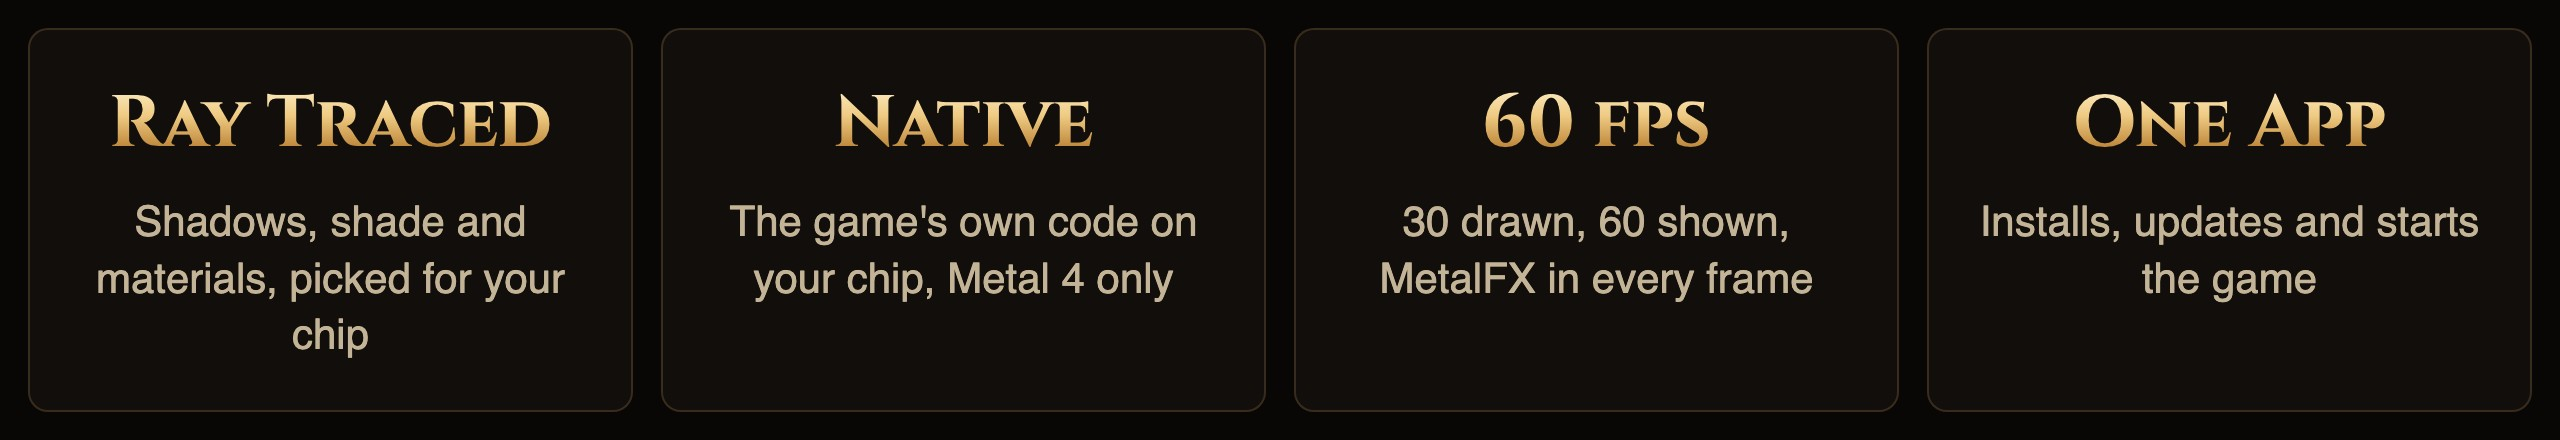
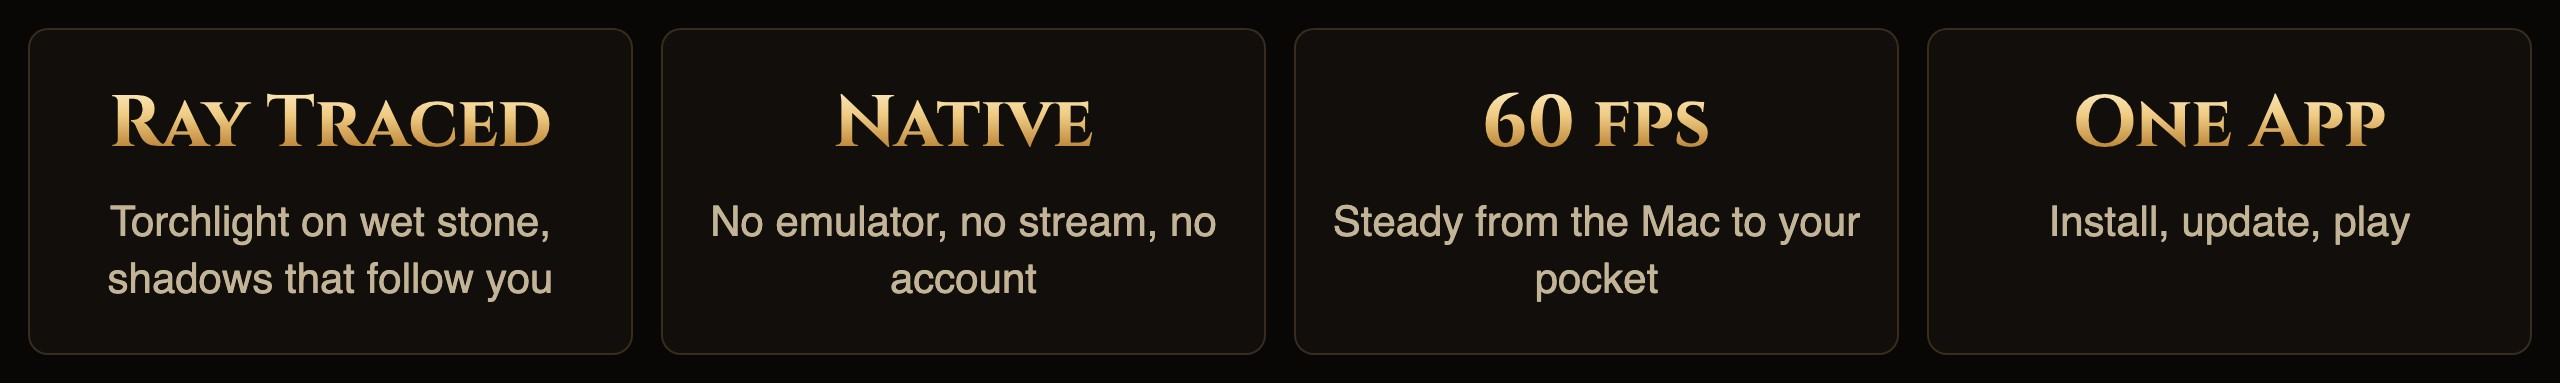
README: written for Diablo fans
The same page, with its words rewritten for players rather than as a report: what the game feels like, what it does for you, and what's honest about the numbers, with the engineering kept to the developer section.

diff --git a/README.md b/README.md
@@ -2,7 +2,7 @@
   <img src="docs/images/r3-hero.jpg" width="100%" alt="D2R Metal, native on Apple silicon: Diablo II: Resurrected and Reign of the Warlock">
 </p>
 
-<h3 align="center">Diablo II: Resurrected, ray traced and native on Apple silicon.</h3>
+<h3 align="center">Diablo II: Resurrected on your Mac, iPhone and iPad. Native, ray traced, and yours to play offline.</h3>
 
 <p align="center">
   <a href="https://github.com/PowerBeef/d2r-metal/releases/latest"><img src="docs/images/r3-btn-mac.png" height="66" alt="Download for Mac"></a>
@@ -21,9 +21,9 @@
   <picture><source media="(max-width: 700px)" srcset="docs/images/r3-clip-cath-s.avif" type="image/avif"><source srcset="docs/images/r3-clip-cath.avif" type="image/avif"><img src="docs/images/r3-clip-cath.jpg" width="100%" alt="The Cathedral in motion: the hero runs over dark, damp stone between two burning torches, her shadow swinging as she passes them"></picture>
 </p>
 
-D2R Metal is a native Apple silicon port of **Diablo II: Resurrected with Reign of the Warlock**. The game's own code runs directly on your chip, every frame is drawn with Metal 4, and it plays fully offline. It isn't an emulator, a stream or a remake.
+Sanctuary belongs on Apple silicon. D2R Metal brings **Diablo II: Resurrected with Reign of the Warlock** to your Mac, iPhone and iPad as a real native game: Blizzard's own code running on your chip, drawn by Metal 4, with ray-traced light on Macs that can carry it. No emulator, no streaming, no remake, no account, no internet. Just the Rogue Encampment waiting for you.
 
-You bring your own copy of the game: D2R Metal builds itself on your device from the Nintendo Switch version's files and contains none of the game.
+You bring your own copy: D2R Metal builds itself from the Nintendo Switch version's files on your device, and ships none of the game.
 
 <p align="center">
   <img src="docs/images/r3-plaques.jpg" width="100%" alt="Ray traced: shadows, shade and materials, picked for your chip. Native: the game's own code on your chip, Metal 4 only. 60 fps: 30 drawn, 60 shown, MetalFX in every frame. One app: installs, updates and starts the game.">
@@ -31,7 +31,7 @@ You bring your own copy of the game: D2R Metal builds itself on your device from
 
 <h2 align="center" id="ray-traced-sanctuary"><img src="docs/images/r3-plate-rays.jpg" width="100%" alt="Ray-Traced Sanctuary"></h2>
 
-Ray tracing is a finishing layer over the game's own lighting. It shows best in motion, and in the dark, where torchlight, wet stone and shadows are all you have. Every clip here is the game on a Mac mini with an M6, in full screen at the settings it picked for itself, with rays at Full.
+You know these places. Now walk them with the light traced through them: torches that throw your shadow across the Cathedral floor, flagstones that have never been this wet, and dark that is still properly dark. Rays sit on top of the game's own lighting, the way its artists meant it, and show best where the torches do the work. Every clip is the game as it runs on a Mac mini with an M6, at the settings it chose for itself, rays at Full.
 
 <p align="center">
   <picture><source media="(max-width: 700px)" srcset="docs/images/r3-clip-harem-s.avif" type="image/avif"><source srcset="docs/images/r3-clip-harem.avif" type="image/avif"><img src="docs/images/r3-clip-harem.jpg" width="49%" alt="The Harem in Act II: firelight runs across a polished checkered floor as the hero walks through"></picture>
@@ -42,13 +42,11 @@ Ray tracing is a finishing layer over the game's own lighting. It shows best in 
   <picture><source media="(max-width: 700px)" srcset="docs/images/r3-clip-glacial-s.avif" type="image/avif"><source srcset="docs/images/r3-clip-glacial.avif" type="image/avif"><img src="docs/images/r3-clip-glacial.jpg" width="49%" alt="An ice cave in Act V: the hero runs across the ice between braziers, their flames shining on the wet floor"></picture>
 </p>
 
-- **Materials answer the light.** Polished stone, ice and metal catch what's around them as you move, and damp places shine more than dry ones. The dark stays as dark as the game's artists made it.
-- **Fire and characters cast ray-traced shadows** that swing as you walk past.
-- **Soft shade** gathers where things meet, and the sun's shadows are traced too.
+- **Every surface answers the light its own way.** Marble, ice and steel catch the glow around them as you move. The Sewers and the Catacombs glisten; the desert stays dry; the Durance of Hate stays black.
+- **Your shadow is real.** Torches, braziers and your own character throw ray-traced shadows that swing as you pass.
+- **Shade settles where it should,** at the foot of walls, under ledges, between the stones, and the sun's shadows are traced across the Blood Moor too.
 
-The torch glints on polished floors aren't rays: they're the game's own effect lights, which D2R Metal turns up with Environment Detail.
-
-The **Ray Tracing** row has Off, Light, Standard and Full, and a change shows at once. It needs an M3 or later, and Recommended turns it on where it fits ([every Mac's pick](#supported-devices)). iPhone and iPad don't have rays yet.
+Ray tracing has four levels, **Off, Light, Standard and Full**, and switches instantly. It needs a Mac with an M3 or later; the game turns it on by itself where your Mac can hold 60 fps ([which Macs](#supported-devices)). iPhone and iPad don't have it yet. The torch glints on polished floors are the game's own effect lights, turned up with Environment Detail, so the lighter levels keep them.
 
 <h2 align="center" id="across-sanctuary"><img src="docs/images/r3-plate-sanctuary.jpg" width="100%" alt="Across Sanctuary"></h2>
 
@@ -63,26 +61,27 @@ The **Ray Tracing** row has Off, Light, Standard and Full, and a change shows at
 
 <h2 align="center" id="built-for-apple-silicon"><img src="docs/images/r3-plate-apple.jpg" width="100%" alt="Built for Apple Silicon"></h2>
 
-- **The game's own code, on your chip.** The few instructions an ordinary app can't run are rewritten once, ahead of time, and nothing is generated while you play.
-- **Metal 4 only.** Its command queues, argument tables and residency sets, with no older path kept alongside, and unified memory with nothing to copy.
-- **MetalFX in every frame.** Temporal upscaling builds detail from several frames, and frame interpolation creates every other frame. The interface is never warped, so text stays crisp.
-- **Hardware ray tracing** on the M3 and later.
-- **Presented the way Apple's guide describes,** on a thread and a queue of their own, so a frame waiting for the screen never holds up the next.
-- **Picked for your chip.** It reads your chip's generation, graphics cores, screen, memory and cooling, and sets the picture to match.
+This isn't a Windows game squeezed through a translation layer. It's Diablo II, rebuilt from the inside for the hardware you own.
+
+- **Blizzard's code, your chip.** The game runs directly on Apple silicon, with nothing in between to slow it or break it.
+- **Metal 4, and only Metal 4.** The graphics were rebuilt from scratch for Apple's newest graphics API, with no older code path dragging behind.
+- **MetalFX in every frame.** Apple's upscaler rebuilds detail from several frames and creates the frames in between, so the game can spend its time on light instead of pixels. Text and panels stay pin sharp.
+- **Hardware ray tracing** on the M3 and later, the way Apple designed it to be used.
+- **It sets itself up.** The first time it opens, it reads your chip, your screen, your memory and even whether your Mac has a fan, and picks the picture to match. Change screens and it works it out again.
 
 <h2 align="center" id="smooth-by-design"><img src="docs/images/r3-plate-smooth.jpg" width="100%" alt="Smooth by Design"></h2>
 
-The game draws 30 frames a second and MetalFX creates the 30 between. Each drawn frame gets twice the time, which is what pays for the rays, and you see 60.
+Diablo II lives on its rhythm: the click, the swing, the loot hitting the ground. D2R Metal draws 30 frames a second and MetalFX builds the 30 between, so your eye sees a steady 60 while every drawn frame gets twice the time. That's what pays for the rays. Here's what a play session looks like on screen: a flat line is a game that never stutters.
 
 <p align="center">
   <img src="docs/images/r3-chart-smooth.jpg" width="100%" alt="Two line charts of the milliseconds between images on screen, both nearly flat at 16.7. Mac mini with an M6, rays at Full, walking the Cathedral: 3,305 images in 55 seconds, 2 of them late, at 33.3 ms. iPhone 17 Pro, the world at 50%, walking the Far Oasis: 19,518 images in 325 seconds, 3 of them late, at 29.2 ms.">
 </p>
 
-<sub>One run each, leaving out the first 5 seconds as the place settles in. These are the only two devices measured so far. In a crowd of 100 monsters the iPhone 17 Pro runs at about 54 fps. Controls respond slightly later than at a real 60 fps: on an M6 with rays off, a click reaches the screen in about 96 ms against 73.5 ms.</sub>
+<sub>One session each, skipping the first 5 seconds while the area loads in. These are the two devices we've measured ourselves. Honest footnote: with 100 monsters on screen the iPhone 17 Pro dips to about 54 fps, and generated frames add a touch of input delay, about 22 ms on an M6. Nothing a Baal run will notice.</sub>
 
 <h2 align="center" id="the-launcher"><img src="docs/images/r3-plate-launcher.jpg" width="100%" alt="The Launcher"></h2>
 
-On the Mac, **D2R Metal Launcher** is the only thing you download. Point it at your game files, press **Install**, and press **Play**.
+No terminal, no scripts, no wiki page of steps. On the Mac you download one app, **D2R Metal Launcher**, show it your game files, press **Install**, and a coffee later you press **Play**.
 
 <p align="center">
   <img src="docs/images/r3-launcher-home.jpg" width="100%" alt="D2R Metal Launcher, ready to play, with the release notes, the installed version and a Play button">
@@ -92,17 +91,17 @@ On the Mac, **D2R Metal Launcher** is the only thing you download. Point it at y
   <img src="docs/images/r3-launcher-working.jpg" width="49%" alt="The launcher building the game, with its progress">
 </p>
 
-- **Builds the game on your Mac** from your own files, in about 10–15 minutes the first time. Nothing leaves your Mac.
-- **Keeps everything current.** It updates itself and the game, and your saves stay as they are.
-- **Can go back** to the previous version, and repairs a damaged install. Signed and notarized by Apple.
+- **Builds the game on your Mac,** from your own files, in about 10 to 15 minutes the first time. Nothing is uploaded anywhere.
+- **Keeps you current.** New version out? It tells you, updates itself and the game in a few minutes, and never touches your characters.
+- **Has your back.** It can roll back to the previous version, repair a damaged install, and it's signed and notarized by Apple so macOS just opens it.
 
 <h2 align="center" id="play-your-way"><img src="docs/images/r3-plate-controls.jpg" width="100%" alt="Play Your Way"></h2>
 
 | Mouse and keyboard | Controller | Touch |
 |---|---|---|
-| The game's own PC interface and D2R's PC keys, with the gauntlet pointer | The console interface, with hints for Xbox, PlayStation or Switch | Controls made for the game, on iPhone and iPad |
+| The real PC interface, the gauntlet pointer and the keys you already know | The console interface, with the right button hints for Xbox, PlayStation or Switch | Controls built for the game, on iPhone and iPad |
 
-Switching is automatic: press a button and the console interface comes up, move the mouse and the PC one returns.
+Pick up a controller mid-game and the console interface appears; touch the mouse and the PC one is back. No menu to visit.
 
 <p align="center">
   <img src="docs/images/r3-pc-world.jpg" width="49%" alt="Mouse and keyboard on the Mac: the game's PC HUD with its angel and demon beside the orbs, and the gauntlet pointer">
@@ -112,12 +111,14 @@ Switching is automatic: press a button and the console interface comes up, move 
 <details>
 <summary><b>The keys</b></summary>
 
-- Click to walk, attack, talk and pick up, and hold to keep going. Right click casts your right skill at the pointer, or uses the item under it.
-- Shift + click attacks without moving, and holding Shift compares an item with what you wear.
-- 1 – 4 drink from the belt, F1 – F8 pick skills, and the wheel steps through them.
-- I, C, T and Q open the inventory, character, skill tree and quests. Tab shows the map, Alt the items on the ground, W swaps weapons, and Esc closes what is open or opens the game menu.
+They're D2R's own PC defaults, so your hands already know them:
 
-Keys can't be rebound yet. Everything about playing on the Mac is in [docs/MAC.md](docs/MAC.md).
+- Click to walk, attack, talk and pick up; hold to keep going. Right click casts your right skill, or uses the item under the pointer.
+- Shift + click attacks without moving. Hold Shift over an item to compare it with what you wear.
+- 1 to 4 drink from the belt, F1 to F8 pick skills, the wheel steps through them.
+- I, C, T and Q for inventory, character, skills and quests. Tab for the map, Alt to show the loot on the ground, W to swap weapons, Esc to close things or open the menu.
+
+Rebinding isn't in yet. Everything else about the Mac version is in [docs/MAC.md](docs/MAC.md).
 
 </details>
 
@@ -127,15 +128,15 @@ Keys can't be rebound yet. Everything about playing on the Mac is in [docs/MAC.m
   <img src="docs/images/r3-iphone.jpg" width="100%" alt="The Rogue Encampment on an iPhone 17 Pro, with its touch controls">
 </p>
 
-The same game on the go: the world drawn at half size and rebuilt by MetalFX, at the picture size your chip can hold, with saves when the app goes to the background and iCloud sync between devices. For now the app is built from source with Xcode ([how](#on-iphone-and-ipad-or-to-develop-build-from-source)).
+The whole game, in your pocket, with touch controls made for it or any controller you pair. MetalFX rebuilds the world from half size so your phone stays cool and the frames stay steady, and each iPhone and iPad gets a picture size its chip can carry. It saves the moment you swipe away, and iCloud carries your characters between your devices. For now the iPhone and iPad app is built from source with Xcode ([how](#on-iphone-and-ipad-or-to-develop-build-from-source)).
 
 <h2 align="center" id="supported-devices"><img src="docs/images/r3-plate-devices.jpg" width="100%" alt="Supported Devices"></h2>
 
-**Needs:** a Mac with an M1 or later on macOS 27, or an iPhone or iPad with an A14 or later on iOS / iPadOS 27. **Rays need** an M3 or later. Here's what **Recommended** picks the first time it starts. You can change any of it.
+**You need:** a Mac with an M1 or later on macOS 27, or an iPhone or iPad with an A14 or later on iOS / iPadOS 27. **For ray tracing,** an M3 or later. Below is what the game picks for each device the first time it starts; you can change all of it in Options.
 
 #### Mac
 
-Each cell is the ray tracing level, then how many pixels wide the 3D world is drawn on that chip's usual screen. Two lines mean the larger GPU, then the smaller. The M6 is on a 2560 × 1440 display.
+Each cell shows the ray tracing level and how wide the 3D world is drawn, in pixels, on that chip's usual screen. Two lines mean the bigger GPU option, then the smaller. The M6 is on a 2560 × 1440 display.
 
 | | M6 | M5 | M4 | M3 | M2 | M1 |
 |---|:---:|:---:|:---:|:---:|:---:|:---:|
@@ -144,11 +145,11 @@ Each cell is the ray tracing level, then how many pixels wide the 3D world is dr
 | **Pro**<br><sub>14-inch</sub> | – | **Full**&nbsp;3024 | **Full**&nbsp;2570 | **Standard**&nbsp;2268<br>**Light**&nbsp;2026 | Off&nbsp;3024 | Off&nbsp;3024<br>Off&nbsp;2570 |
 | **Base**<br><sub>13-inch Air</sub> | **Full**&nbsp;2560 ✓ | **Light**&nbsp;1970<br>Off&nbsp;2500 | Off&nbsp;2500<br>Off&nbsp;1470 | Off&nbsp;1970<br>Off&nbsp;1920 | Off&nbsp;1470<br>Off&nbsp;1920 | Off&nbsp;1600 |
 
-Every Mac also gets MetalFX Temporal, frame generation, 16x filtering, Accurate color, Environment Shadows and Ultra shadow maps, except the 7-core M1 and the MacBook Neo (A18 Pro: Off, 1204 wide), which get lighter shadows. **✓ Only the M6 has been measured.** The rest are estimates from public benchmarks, about one step of 3D Resolution either way ([how they're made](docs/MAC.md#what-recommended-picks)).
+Every Mac also gets MetalFX, frame generation, 16x filtering, true colors, environment shadows and the finest shadow maps, except the 7-core M1 and the MacBook Neo (A18 Pro: no rays, 1204 wide), which get lighter shadows. **✓ marks the one Mac we've measured ourselves.** The rest are our best estimates from public benchmarks, and could be a notch off either way ([how we pick](docs/MAC.md#what-recommended-picks)). If your Mac has room to spare or struggles, nudge the 3D Resolution and Ray Tracing rows, and [tell us](https://github.com/PowerBeef/d2r-metal/issues/new/choose) what you've got.
 
 <h4 id="iphone-and-ipad">iPhone and iPad</h4>
 
-Every device gets MetalFX Temporal, frame generation, the world at 50%, 16x filtering and Accurate color. They differ in Picture Size.
+Every iPhone and iPad gets MetalFX, frame generation, the world at half size, 16x filtering and true colors. What changes from one device to the next is the Picture Size.
 
 | Picture Size | iPhone | iPad |
 |---|---|---|
@@ -157,9 +158,9 @@ Every device gets MetalFX Temporal, frame generation, the world at 50%, 16x filt
 | **Medium**<br><sub>62.5%</sub> | 15 Pro Max, 15 ≈, 15 Plus, 14 Pro ≈, 14 Pro Max, 14 ≈, 13 Pro ≈ | Pro 12.9 M1, mini A17 Pro, iPad A16 |
 | **Low**<br><sub>720 rows</sub> | 14 Plus, 13 Pro Max, 13 ≈, 13 mini, 12 Pro Max, 12 Pro ≈, 12 ≈, 12 mini | mini A15, iPad A14, Air A14 |
 
-> **✓ Measured** on the device itself: only the iPhone 17 Pro. **≈ Simulated** on that iPhone 17 Pro, at the device's picture size with extra graphics work to match our estimate: each held 60 fps in 30 seconds of play, but the processor isn't slowed, so a real device can do worse in a big fight. **No mark: estimated,** not run at all. If you have one of these, please [tell us](https://github.com/PowerBeef/d2r-metal/issues/new/choose) how it goes.
+> **✓** we played it on that very device (only the iPhone 17 Pro so far). **≈** we simulated it on the iPhone 17 Pro, slowing its graphics to match that chip: each one held 60 fps in town, but a real phone's slower processor could still dip in a big fight. **No mark:** an estimate from benchmarks, never run. Own one of these? [Tell us](https://github.com/PowerBeef/d2r-metal/issues/new/choose) how it plays.
 
-A14 to A16 devices also need a [Legacy Device Pack](docs/LEGACY_DEVICES.md), and those with 4 GB of memory run tightly.
+iPhones and iPads with an A14 to A16 chip also need a one-time [Legacy Device Pack](docs/LEGACY_DEVICES.md), and the 4 GB models run with little room to spare.
 
 <details>
 <summary><b>Every device in detail</b></summary>
@@ -245,13 +246,13 @@ A14 to A16 devices also need a [Legacy Device Pack](docs/LEGACY_DEVICES.md), and
 
 <h2 align="center" id="getting-started"><img src="docs/images/r3-plate-start.jpg" width="100%" alt="Get Started"></h2>
 
-You need your own copy of the Nintendo Switch version of Diablo II: Resurrected with Reign of the Warlock, updated to 1.0.34.0 and dumped from your own console ([how](docs/GAME_FILES.md)). D2R Metal contains none of the game, and we don't distribute or endorse anyone who does.
+You'll need your own copy of the **Nintendo Switch version** of Diablo II: Resurrected with Reign of the Warlock, updated to 1.0.34.0 and dumped from your own console ([how](docs/GAME_FILES.md)). That's the Arm build of the game, the one that can run natively on Apple silicon. D2R Metal contains none of the game, and we don't distribute or endorse anyone who does.
 
 **On a Mac:**
 
 1. **Download** `D2R-Metal-Launcher-<version>.dmg` from the [latest release](https://github.com/PowerBeef/d2r-metal/releases/latest) and drag **D2R Metal Launcher** to Applications.
 2. **Choose your game files:** the game packages (`.nsp` or `.xci`: the base game and the 1.0.34.0 update) with your console's `prod.keys`, or a folder you already extracted.
-3. **Press Install,** then **Play**. It needs about 30 GB free while installing. More in [docs/LAUNCHER.md](docs/LAUNCHER.md).
+3. **Press Install,** go make a coffee, then press **Play**. Keep about 30 GB free while it builds. More in [docs/LAUNCHER.md](docs/LAUNCHER.md).
 
 <details id="on-iphone-and-ipad-or-to-develop-build-from-source">
 <summary><b>On iPhone and iPad, or to develop: build from source</b></summary>
@@ -286,12 +287,12 @@ Run `./setup.sh` again after updating to a new commit. It also rewrites three fi
 <details id="picture-settings">
 <summary><b>Picture settings</b></summary>
 
-Every setting lives in the game's own Options. MetalFX Temporal and frame generation are always on and have no rows.
+Everything lives in the game's own Options screen, on the Video tab. MetalFX and frame generation are always on and have no switch.
 
 - **Mac:** Display Mode, Resolution (1600 × 900 to 2560 × 1440, or Native), Color (Accurate / Vivid), Graphic Presets, 3D Resolution (100 down to 50%), Ray Tracing and Frame Drops (lower the 3D resolution while frames drop, or keep it).
 - **iPhone and iPad:** Picture Size (at the next start), 3D Resolution (50 to 100%), Color and Graphic Presets.
 - **Both:** Anisotropic Filtering (Original up to 16x), Environment Shadows, Shadow Quality (Standard up to Ultra) and Environment Detail (all three at the next start).
-- **Graphic Presets:** Recommended, Performance (lighter) and Quality (on a Mac everything on but the rays, which stay your choice; on iPhone and iPad the world at 100% and Picture Size Full).
+- **Graphic Presets:** Recommended (what the game picked for you), Performance (lighter) and Quality (everything on; rays stay your call on the Mac, and iPhone and iPad get the world at full size).
 
 <p align="center">
   <img src="docs/images/r3-video-top.jpg" width="49%" alt="The Mac Video tab: Display Mode, Resolution, Color, Graphic Presets, 3D Resolution">
@@ -303,39 +304,41 @@ Every setting lives in the game's own Options. MetalFX Temporal and frame genera
 <details id="saves-you-can-trust">
 <summary><b>Saves you can trust</b></summary>
 
-- The Mac App saves on every quit, including from the Dock, at logout and with a text box still open; minimizing is treated like an iPhone going to the background.
-- The iPhone app saves when it goes to the background, so swiping it away doesn't lose progress.
-- A failed save (a full disk, for example) is refused with a message, and the next one goes through: one failure can't silently stop every later save.
-- A damaged shared stash can't hang iCloud sync.
-- **iCloud sync** works on iPhone and iPad, and on a Mac App you build and sign yourself with a paid developer account. The App the launcher installs keeps its saves on the Mac, and moving a character over by hand takes a minute ([docs/MAC.md](docs/MAC.md#saves-logs-and-icloud)).
+Nothing hurts like a lost character, so saving got real attention.
+
+- The Mac app saves whenever you quit, however you quit: from the Dock, at logout, even with a text box still open. Minimizing saves too.
+- The iPhone app saves the moment it goes to the background, so swiping it away loses nothing.
+- If a save can't be written (a full disk, say), the game tells you, and the next save still goes through. One failure can never quietly block the rest.
+- A damaged shared stash can't jam iCloud sync.
+- **iCloud sync** works between iPhones and iPads, and with a Mac app you build and sign yourself with a paid developer account. The Mac app from the launcher keeps its saves on the Mac; moving a character over by hand takes a minute ([docs/MAC.md](docs/MAC.md#saves-logs-and-icloud)).
 
 </details>
 
 <details id="the-game-as-it-shipped">
 <summary><b>The game as it shipped</b></summary>
 
-**D2R Metal changes the platform, not the game.** The rules, drop rates, economy, skills and their caps, the stash with its tabs, the automap and the difficulty are the ones Blizzard shipped, with no gameplay systems added on top. The game's logic is left alone apart from the part of a community fix that lets it run offline.
+**D2R Metal changes the platform, not the game.** Drop rates, the economy, skills and their caps, the stash, the automap and the difficulties are exactly what Blizzard shipped. No mods, no balance changes, no added systems. The only touch to the game's logic is the piece of a community fix that lets it run offline.
 
-A few conveniences sit on the **Extras** tab of Options, each one a switch you can turn off: light beams on valuable drops, item notes, potion pickup and belt refill, and a buzz on valuable drops (iPhone). A new game starts beside the town's waypoint, and the pause menu has **Quick Restart**.
+A few quality-of-life switches live on the **Extras** tab of Options, each one off if you want it off: light beams on valuable drops, item notes, potion pickup and belt refill, and a buzz on valuable drops on iPhone. New games start beside the town waypoint, and the pause menu has a **Quick Restart** for your farming runs.
 
 </details>
 
 <details id="questions-and-answers">
 <summary><b>Questions and answers</b></summary>
 
-**Is this an emulator?** No. The game's own code, from the Switch release, runs directly on your Apple chip; only the handful of instructions an ordinary app can't run are rewritten ahead of time, and the Switch's graphics are rebuilt on Metal 4. Nothing is streamed.
+**Is this an emulator?** No. The game's own code, from the Switch release, runs directly on your Apple chip. The handful of instructions a normal app can't run are rewritten once, ahead of time, and the graphics are rebuilt on Metal 4. Nothing is emulated and nothing is streamed.
 
-**Why do I need the Switch version?** It's the Arm build of the game that D2R Metal runs. You need your own copy and its update, dumped from your own console with its keys ([docs/GAME_FILES.md](docs/GAME_FILES.md)).
+**Why the Switch version?** Because it's the Arm build of the game, which is what Apple silicon speaks. You need your own copy and its update, dumped from your own console with its keys ([docs/GAME_FILES.md](docs/GAME_FILES.md)).
 
-**I own the PC (Battle.net) version. Can I use it?** No, D2R Metal is built on the Switch release. On a Mac, CrossOver runs the PC version.
+**I own it on Battle.net. Can I use that?** Not with D2R Metal, which is built on the Switch release. On a Mac, CrossOver runs the PC version.
 
-**Can I play online?** No, D2R Metal plays offline only.
+**Can I play online?** No. D2R Metal is single player, offline, forever yours.
 
-**Will I get ray tracing?** On a Mac with an M3 or later and at least 16 GB, where the estimate says it holds 60 fps. On any other Mac with an M3 or later you can still turn it on yourself. iPhone and iPad don't have it yet.
+**Will I get ray tracing?** On a Mac with an M3 or later and at least 16 GB, the game turns it on where it estimates you'll hold 60 fps. On any other M3-or-later Mac you can turn it on yourself. iPhone and iPad don't have it yet.
 
-**How do updates work?** The launcher checks this project's releases, updates the game and itself, and can go back to the previous version. The game's main menu also tells you when a new version is out.
+**How do updates work?** The launcher watches this project's releases, updates the game and itself, and can roll back. The game's main menu also lets you know when something new is out.
 
-**Coming from D2R Mobile?** Its saves load here. Items kept in its extra stash space (the wider columns, extra pages, Pouch or vault) don't carry over.
+**Coming from D2R Mobile?** Your saves load straight in. Items kept in its extra stash space (the wider columns, extra pages, Pouch or vault) don't carry over.
 
 </details>
 
